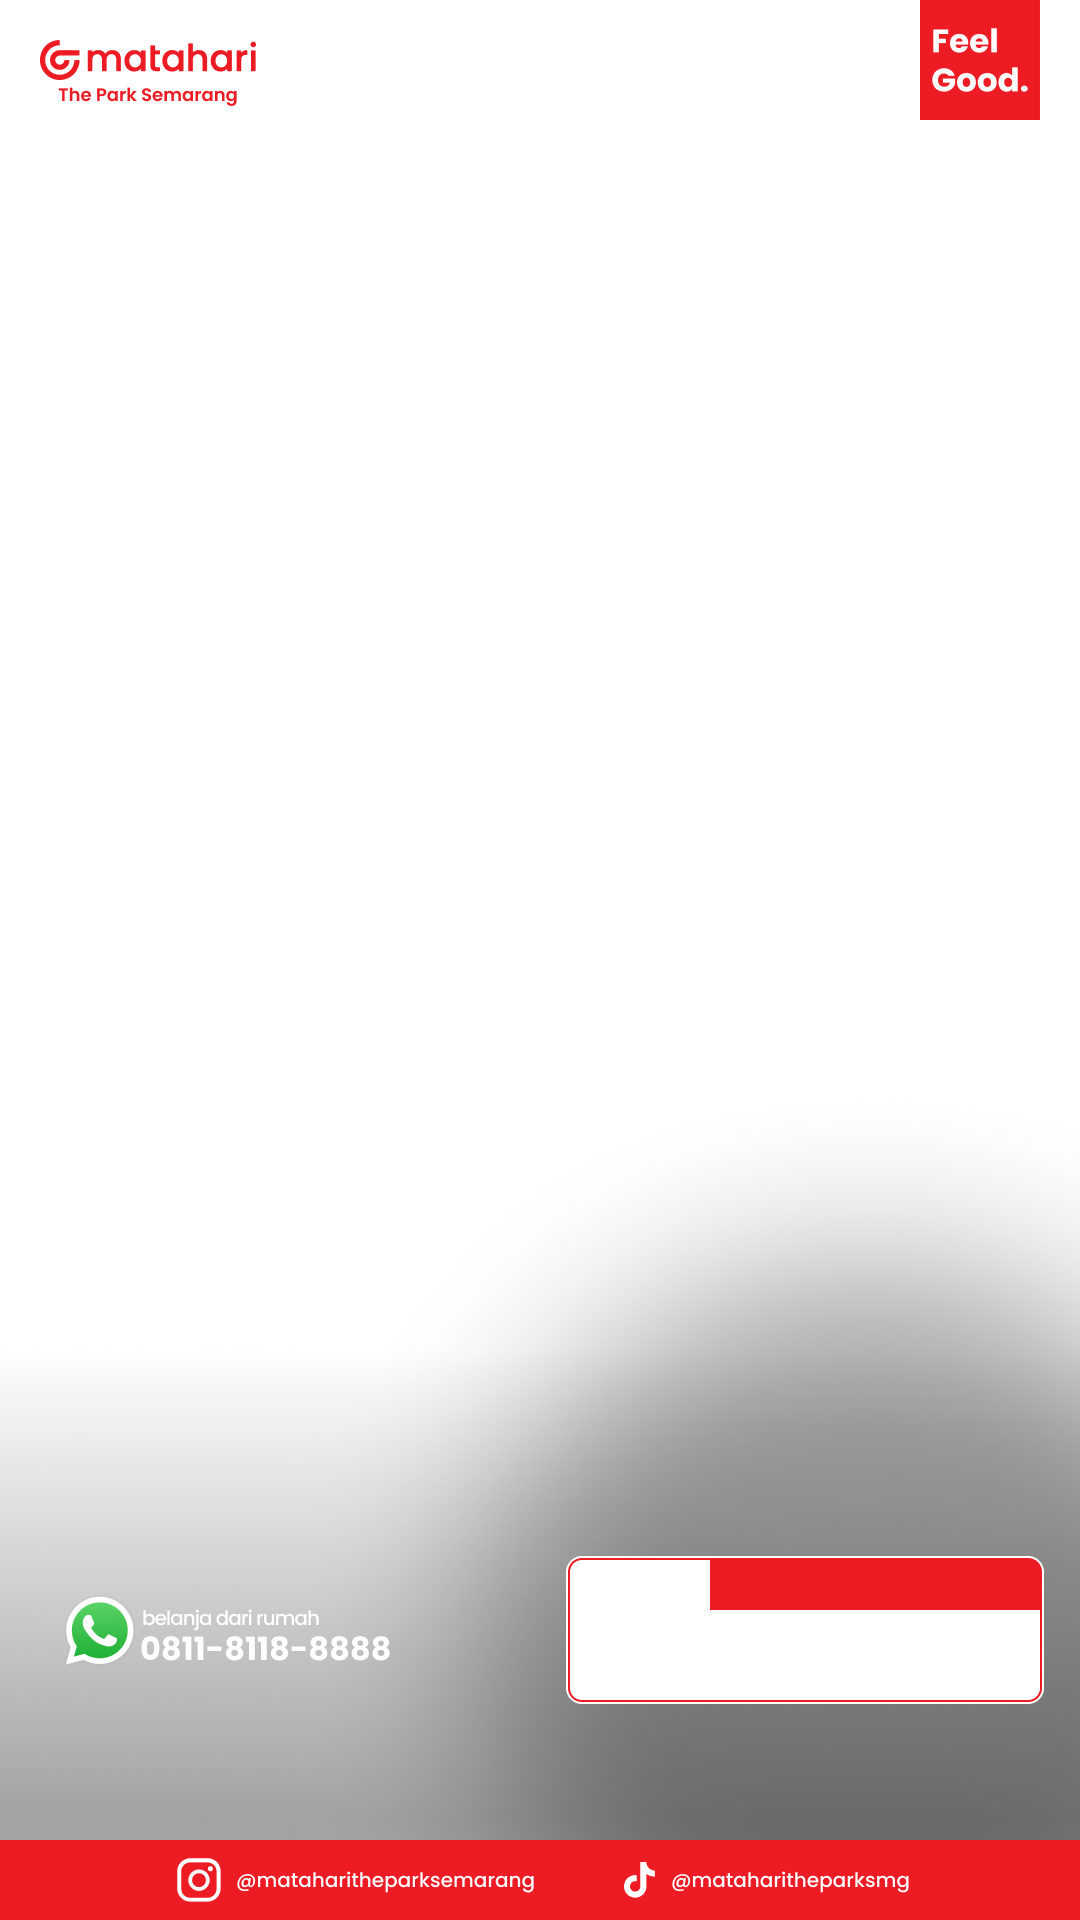
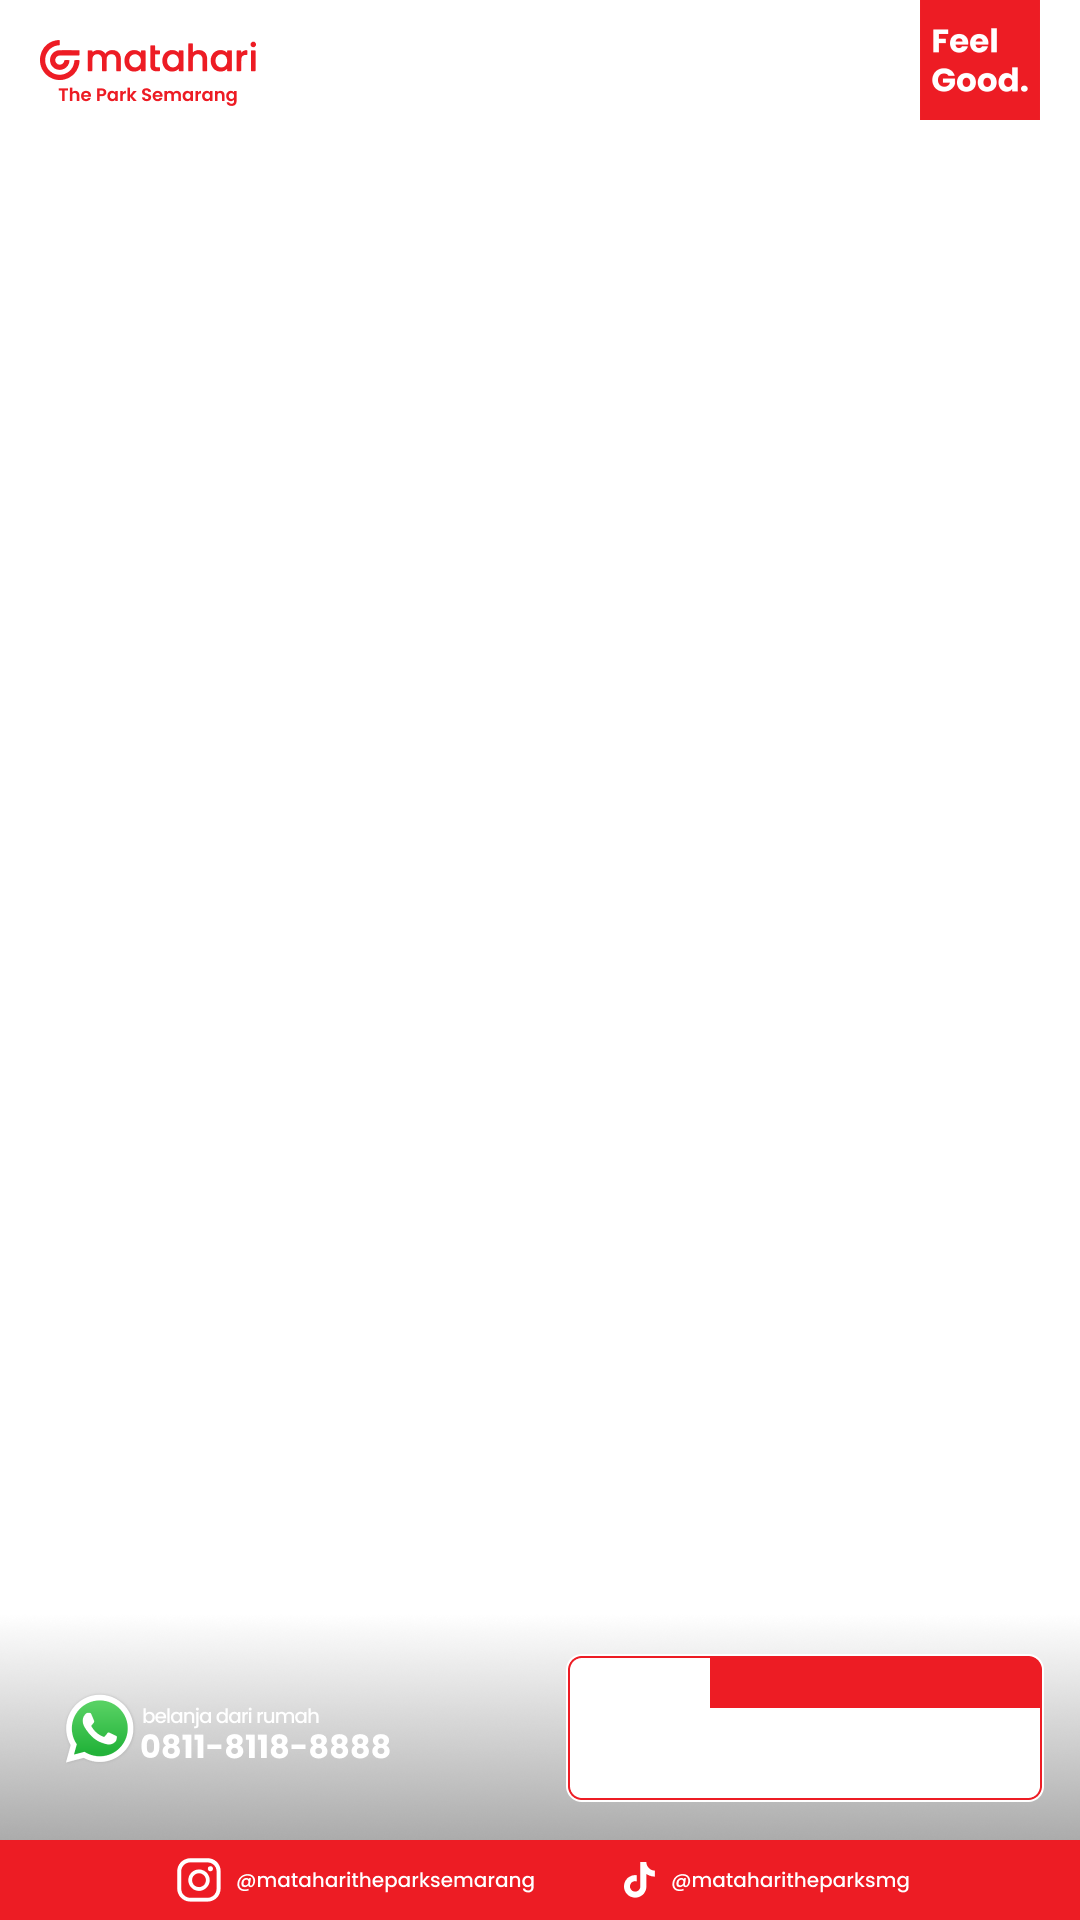
update layout

Changed region(s): [[0.0, 0.625, 1.0, 0.9688]]

diff --git a/script.js b/script.js
@@ -77,7 +77,7 @@ const SIZE_CONFIG = {
       product: { x: 0, y: 0, w: 1080, h: 1350 },
       logo: { x: 570, y: 1090, w: 140, h: 140 },
       originalPrice: { x: 874, y: 1125 },
-      discountPrice: { x: 874, y: 1210 },
+      discountPrice: { x: 874, y: 1211 },
 
       sizeTitle: { x: 803, y: 1009 },
       sizeValue: { x: 803, y: 1050 }
@@ -90,12 +90,12 @@ const SIZE_CONFIG = {
     // defaults scaled from 4:5 to 9:16 (you can tweak these values)
     positions: {
       product: { x: 0, y: 0, w: 1080, h: 1920 },
-      logo: { x: 570, y: 1560, w: 140, h: 140 },
-      originalPrice: { x: 874, y: 1595 },
-      discountPrice: { x: 874, y: 1677 },
+      logo: { x: 570, y: 1658, w: 140, h: 140 },
+      originalPrice: { x: 874, y: 1693 },
+      discountPrice: { x: 874, y: 1779 },
 
-      sizeTitle: { x: 803, y: 1479 },
-      sizeValue: { x: 803, y: 1520 }
+      sizeTitle: { x: 803, y: 1577 },
+      sizeValue: { x: 803, y: 1618 }
 
     }
   }
@@ -249,7 +249,7 @@ function draw() {
       ctx.fillRect(p.x, sepY, p.w, borderW); // horizontal
     }
   }
-  
+
   // ==============================
   // 4. TEMPLATE
   // ==============================
@@ -433,22 +433,29 @@ document.getElementById("sizeVariant").addEventListener("input", (e) => {
   draw();
 });
 
-// Logo dropdown
-document.getElementById("logoSelect").addEventListener("change", (e) => {
-  const value = e.target.value;
-  if (!value) {
-    state.logoImage = null;
-    draw();
-    return;
-  }
+// Logo input (with datalist)
+const logoInputEl = document.getElementById("logoSelect");
+if (logoInputEl) {
+  logoInputEl.addEventListener("input", (e) => {
+    const val = String(e.target.value || "").trim();
+    if (!val) {
+      state.logoImage = null;
+      draw();
+      return;
+    }
 
-  const img = new Image();
-  img.onload = () => {
-    state.logoImage = img;
-    draw();
-  };
-  img.src = value;
-});
+    // map label -> path
+    const path = window.logoMap && window.logoMap[val];
+    if (!path) return; // user typed free text that doesn't match
+
+    const img = new Image();
+    img.onload = () => {
+      state.logoImage = img;
+      draw();
+    };
+    img.src = path;
+  });
+}
 
 // Price inputs
 const originalPriceInput = document.getElementById("originalPrice");
@@ -512,8 +519,8 @@ function download(type) {
 
   const logoSelect = document.getElementById("logoSelect");
   let brand = "brand";
-  if (logoSelect && logoSelect.selectedOptions && logoSelect.selectedOptions.length) {
-    brand = logoSelect.selectedOptions[0].textContent || brand;
+  if (logoSelect && logoSelect.value) {
+    brand = logoSelect.value;
   }
 
   const orig = formatIDR(state.originalPrice) || "";
@@ -566,22 +573,39 @@ function formatNumberInput(inputEl) {
 fetch("assets/logos.json")
   .then(res => res.json())
   .then(logos => {
-    const select = document.getElementById("logoSelect");
-
-    logos.forEach(filename => {
-      const option = document.createElement("option");
-      option.value = `assets/logos/${filename}`;
-      option.textContent = filename
-        .replace(/\.[^/.]+$/, "")   // hapus .png
-        .replace(/[-_]/g, " ")      // ganti - _
-        .replace(/\b\w/g, l => l.toUpperCase()); // kapital
-
-      select.appendChild(option);
-    });
+    // store master list and populate select
+    window.logosList = logos;
+    populateLogoOptions(logos);
   })
   .catch(err => {
     console.error("Failed to load logos.json", err);
   });
+
+function populateLogoOptions(list) {
+  // Populate datalist `logoList` and build a label->path map
+  const dataList = document.getElementById("logoList");
+  const input = document.getElementById("logoSelect");
+  if (!dataList || !input) return;
+
+  // clear existing
+  dataList.innerHTML = "";
+  window.logoMap = {};
+
+  list.forEach(filename => {
+    const label = filename
+      .replace(/\.[^/.]+$/, "")   // remove extension
+      .replace(/[-_]/g, " ")      // replace - _ with space
+      .replace(/\b\w/g, l => l.toUpperCase()); // capitalize
+
+    const option = document.createElement("option");
+    option.value = label;
+    dataList.appendChild(option);
+
+    window.logoMap[label] = `assets/logos/${filename}`;
+  });
+}
+
+// (datalist-based searching — built-in behavior) no extra search handler needed
 
 function loadTemplateForSize(sizeKey) {
   const cfg = SIZE_CONFIG[sizeKey];

diff --git a/index.html b/index.html
@@ -37,9 +37,8 @@
 
         <label>
           Logo Brand
-          <select id="logoSelect">
-            <option value="">-- Pilih Brand --</option>
-          </select>
+          <input list="logoList" id="logoSelect" placeholder="Cari atau pilih brand..." autocomplete="off" aria-label="Logo brand">
+          <datalist id="logoList"></datalist>
         </label>
       </div>
 
